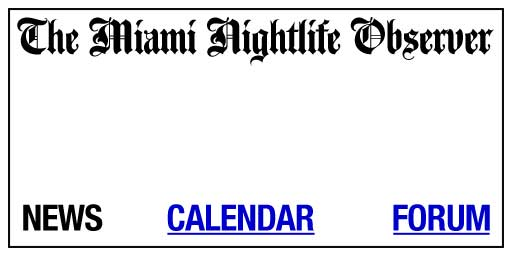
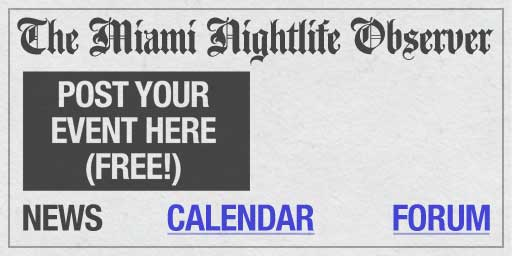
Added paper texture page background.

diff --git a/public/stylesheets/screen.css b/public/stylesheets/screen.css
@@ -366,13 +366,7 @@ body {
   text-align: center;
 }
 
-/* line 13, ../../app/stylesheets/screen.scss */
-body {
-  /*  background-image: url('/images/layout-devices.png');*/
-  background-repeat: no-repeat;
-}
-
-/* line 18, ../../app/stylesheets/screen.scss */
+/* line 16, ../../app/stylesheets/screen.scss */
 #page {
   overflow: hidden;
   *zoom: 1;
@@ -383,163 +377,166 @@ body {
   max-width: 100%;
   width: 100%;
   position: relative;
-  /*  width: 992px;
-    left: 0px;
-  */
+  background-image: url("/images/paper-texture.jpg");
 }
 
-/* line 33, ../../app/stylesheets/screen.scss */
+/* line 30, ../../app/stylesheets/screen.scss */
 .headline {
   font-size: 1.2em;
   font-weight: bold;
 }
 
-/* line 37, ../../app/stylesheets/screen.scss */
+/* line 34, ../../app/stylesheets/screen.scss */
 #footer {
   font-size: 0.8em;
 }
 
 /* Styles --------------------------------------------------------------*/
-/* line 43, ../../app/stylesheets/screen.scss */
+/* line 40, ../../app/stylesheets/screen.scss */
 .rack {
   overflow: hidden;
   *zoom: 1;
   width: 100%;
 }
-/* line 47, ../../app/stylesheets/screen.scss */
+/* line 44, ../../app/stylesheets/screen.scss */
 .rack .section {
   width: 50%;
   float: left;
   overflow: hidden;
 }
-/* line 51, ../../app/stylesheets/screen.scss */
+/* line 48, ../../app/stylesheets/screen.scss */
 .rack .section .mount {
   float: left;
 }
-/* line 53, ../../app/stylesheets/screen.scss */
+/* line 50, ../../app/stylesheets/screen.scss */
 .rack .section .mount .tile {
   position: relative;
   display: block;
   float: left;
   overflow: hidden;
 }
-/* line 58, ../../app/stylesheets/screen.scss */
+/* line 55, ../../app/stylesheets/screen.scss */
 .rack .section .mount .tile img {
   width: 100%;
   max-width: 100%;
 }
-/* line 62, ../../app/stylesheets/screen.scss */
+/* line 59, ../../app/stylesheets/screen.scss */
 .rack .section .mount .tile .copy {
   overflow: hidden;
   position: absolute;
   top: 0;
   margin: 16px 6.25% 0 6.25%;
 }
-/* line 70, ../../app/stylesheets/screen.scss */
+/* line 67, ../../app/stylesheets/screen.scss */
 .rack .section .mount.square {
   width: 100%;
 }
-/* line 72, ../../app/stylesheets/screen.scss */
+/* line 69, ../../app/stylesheets/screen.scss */
 .rack .section .mount.square .tile.square, .rack .section .mount.square .tile.portrait {
   width: 50%;
 }
-/* line 74, ../../app/stylesheets/screen.scss */
+/* line 71, ../../app/stylesheets/screen.scss */
 .rack .section .mount.square .tile.square .spacer-1-1, .rack .section .mount.square .tile.portrait .spacer-1-1 {
+  opacity: 0;
   width: 100%;
 }
-/* line 77, ../../app/stylesheets/screen.scss */
+/* line 75, ../../app/stylesheets/screen.scss */
 .rack .section .mount.square .tile.square .spacer-1-2, .rack .section .mount.square .tile.portrait .spacer-1-2 {
+  opacity: 0;
   width: 100%;
 }
-/* line 81, ../../app/stylesheets/screen.scss */
+/* line 80, ../../app/stylesheets/screen.scss */
 .rack .section .mount.square .tile.landscape {
   width: 100%;
 }
-/* line 83, ../../app/stylesheets/screen.scss */
+/* line 82, ../../app/stylesheets/screen.scss */
 .rack .section .mount.square .tile.landscape .spacer-1-1 {
+  opacity: 0;
   width: 50%;
 }
 /* line 86, ../../app/stylesheets/screen.scss */
 .rack .section .mount.square .tile.landscape .spacer-1-2 {
+  opacity: 0;
   width: 50%;
 }
-/* line 89, ../../app/stylesheets/screen.scss */
+/* line 90, ../../app/stylesheets/screen.scss */
 .rack .section .mount.square .tile.landscape .spacer-2-1 {
-  width: 100%;
-}
-/* line 94, ../../app/stylesheets/screen.scss */
-.rack .section .mount.flexible {
+  opacity: 0;
   width: 100%;
 }
 /* line 96, ../../app/stylesheets/screen.scss */
+.rack .section .mount.flexible {
+  width: 100%;
+}
+/* line 98, ../../app/stylesheets/screen.scss */
 .rack .section .mount.flexible .tile.square {
   width: 50%;
 }
 
 /* Width adaptations --------------------------------------------------------------*/
 @media screen and (max-width: 768px) {
-  /* line 108, ../../app/stylesheets/screen.scss */
+  /* line 110, ../../app/stylesheets/screen.scss */
   .rack .section {
     width: 100%;
   }
-  /* line 110, ../../app/stylesheets/screen.scss */
+  /* line 112, ../../app/stylesheets/screen.scss */
   .rack .section .mount.square {
     width: 66.7%;
   }
-  /* line 112, ../../app/stylesheets/screen.scss */
+  /* line 114, ../../app/stylesheets/screen.scss */
   .rack .section .mount.square .tile.square, .rack .section .mount.square .tile.portrait {
     width: 50%;
   }
-  /* line 115, ../../app/stylesheets/screen.scss */
+  /* line 117, ../../app/stylesheets/screen.scss */
   .rack .section .mount.square .tile.landscape {
     width: 100%;
   }
-  /* line 119, ../../app/stylesheets/screen.scss */
+  /* line 121, ../../app/stylesheets/screen.scss */
   .rack .section .mount.flexible {
     width: 33.4%;
   }
-  /* line 121, ../../app/stylesheets/screen.scss */
+  /* line 123, ../../app/stylesheets/screen.scss */
   .rack .section .mount.flexible .tile.square {
     width: 100%;
   }
 }
 
 @media screen and (max-width: 512px) {
-  /* line 131, ../../app/stylesheets/screen.scss */
+  /* line 133, ../../app/stylesheets/screen.scss */
   .rack .section {
     width: 100%;
   }
-  /* line 133, ../../app/stylesheets/screen.scss */
+  /* line 135, ../../app/stylesheets/screen.scss */
   .rack .section .mount {
     float: left;
   }
-  /* line 135, ../../app/stylesheets/screen.scss */
+  /* line 137, ../../app/stylesheets/screen.scss */
   .rack .section .mount .tile {
     display: block;
     float: left;
   }
-  /* line 138, ../../app/stylesheets/screen.scss */
+  /* line 140, ../../app/stylesheets/screen.scss */
   .rack .section .mount .tile img {
     width: 100%;
     max-width: 100%;
   }
-  /* line 144, ../../app/stylesheets/screen.scss */
+  /* line 146, ../../app/stylesheets/screen.scss */
   .rack .section .mount.square {
     width: 100%;
   }
-  /* line 146, ../../app/stylesheets/screen.scss */
+  /* line 148, ../../app/stylesheets/screen.scss */
   .rack .section .mount.square .tile.square, .rack .section .mount.square .tile.portrait {
     width: 50%;
   }
-  /* line 149, ../../app/stylesheets/screen.scss */
+  /* line 151, ../../app/stylesheets/screen.scss */
   .rack .section .mount.square .tile.landscape {
     width: 100%;
   }
-  /* line 153, ../../app/stylesheets/screen.scss */
+  /* line 155, ../../app/stylesheets/screen.scss */
   .rack .section .mount.flexible {
     width: 100%;
   }
-  /* line 155, ../../app/stylesheets/screen.scss */
+  /* line 157, ../../app/stylesheets/screen.scss */
   .rack .section .mount.flexible .tile.square {
     width: 50%;
   }
@@ -983,7 +980,7 @@ $current_width: $base_width;
    ----- Not working due to a possible bug in the @media directive. */
 /* Device adaptations --------------------------------------------------------------*/
 @media screen and (min-device-width: 320px) and (max-device-width: 480px) and (orientation:portrait) {
-  /* line 201, ../../app/stylesheets/screen.scss */
+  /* line 203, ../../app/stylesheets/screen.scss */
   #page {
     /*    font-size: 14px;
         line-height: 22px;
@@ -992,7 +989,7 @@ $current_width: $base_width;
 }
 
 @media screen and (min-device-width: 320px) and (max-device-width: 480px) and (orientation:landscape) {
-  /* line 209, ../../app/stylesheets/screen.scss */
+  /* line 211, ../../app/stylesheets/screen.scss */
   #page {
     /*    font-size: 14px;
         line-height: 22px;
@@ -1001,7 +998,7 @@ $current_width: $base_width;
 }
 
 @media screen and (min-device-width: 481px) and (max-device-width: 1024px) and (orientation:portrait) {
-  /* line 217, ../../app/stylesheets/screen.scss */
+  /* line 219, ../../app/stylesheets/screen.scss */
   #page {
     /*    font-size: 14px;
         line-height: 22px;
@@ -1010,7 +1007,7 @@ $current_width: $base_width;
 }
 
 @media screen and (min-device-width: 481px) and (max-device-width: 1024px) and (orientation:landscape) {
-  /* line 225, ../../app/stylesheets/screen.scss */
+  /* line 227, ../../app/stylesheets/screen.scss */
   #page {
     /*    font-size: 14px;
         line-height: 22px;

diff --git a/app/stylesheets/screen.scss b/app/stylesheets/screen.scss
@@ -11,8 +11,6 @@
 @include susy;
 
 body {
-/*  background-image: url('/images/layout-devices.png');*/
-  background-repeat: no-repeat;
 }
 
 #page {
@@ -25,9 +23,8 @@ body {
   // width is divisible by four.  Some jQuery code will fix that when
   // necessary by setting an exact pixel width and an offset.
   position: relative;
-/*  width: 992px;
-  left: 0px;
-*/
+
+  background-image: url('/images/paper-texture.jpg');
 }
 
 .headline {
@@ -72,21 +69,26 @@ body {
       .tile.square, .tile.portrait {
         width: 50%;
         .spacer-1-1 {
+          opacity: 0;
           width: 100%;
         }
         .spacer-1-2 {
+          opacity: 0;
           width: 100%;
         }
       }
       .tile.landscape {
         width: 100%;
         .spacer-1-1 {
+          opacity: 0;
           width: 50%;
         }
         .spacer-1-2 {
+          opacity: 0;
           width: 50%;
         }
         .spacer-2-1 {
+          opacity: 0;
           width: 100%;
         }
       }
